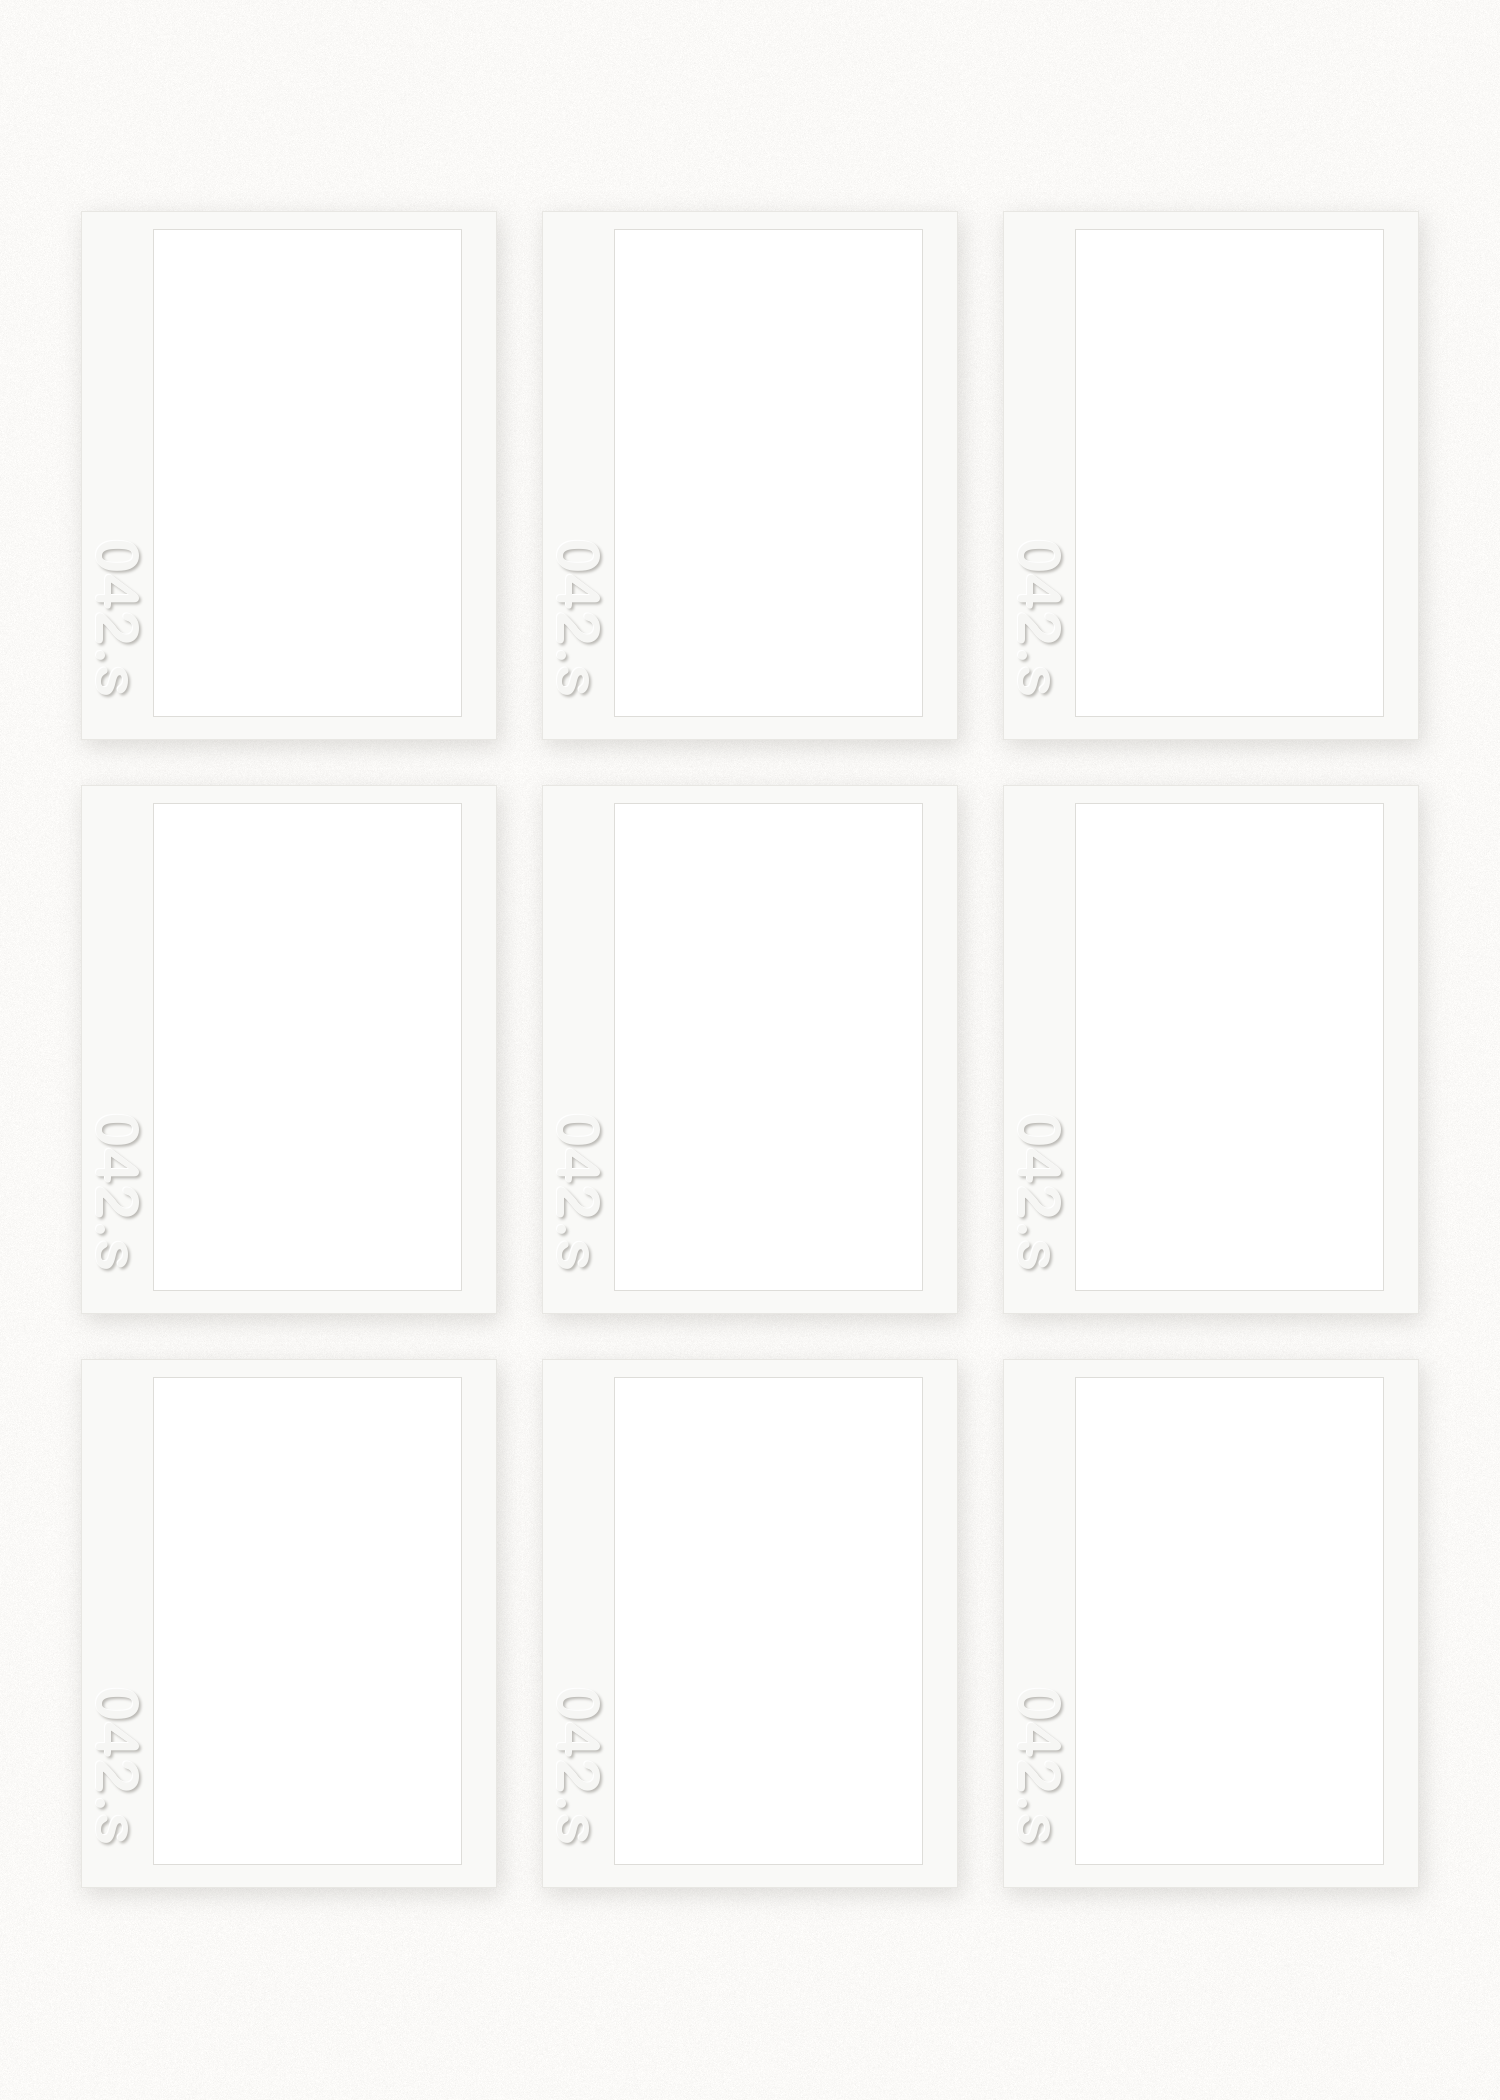
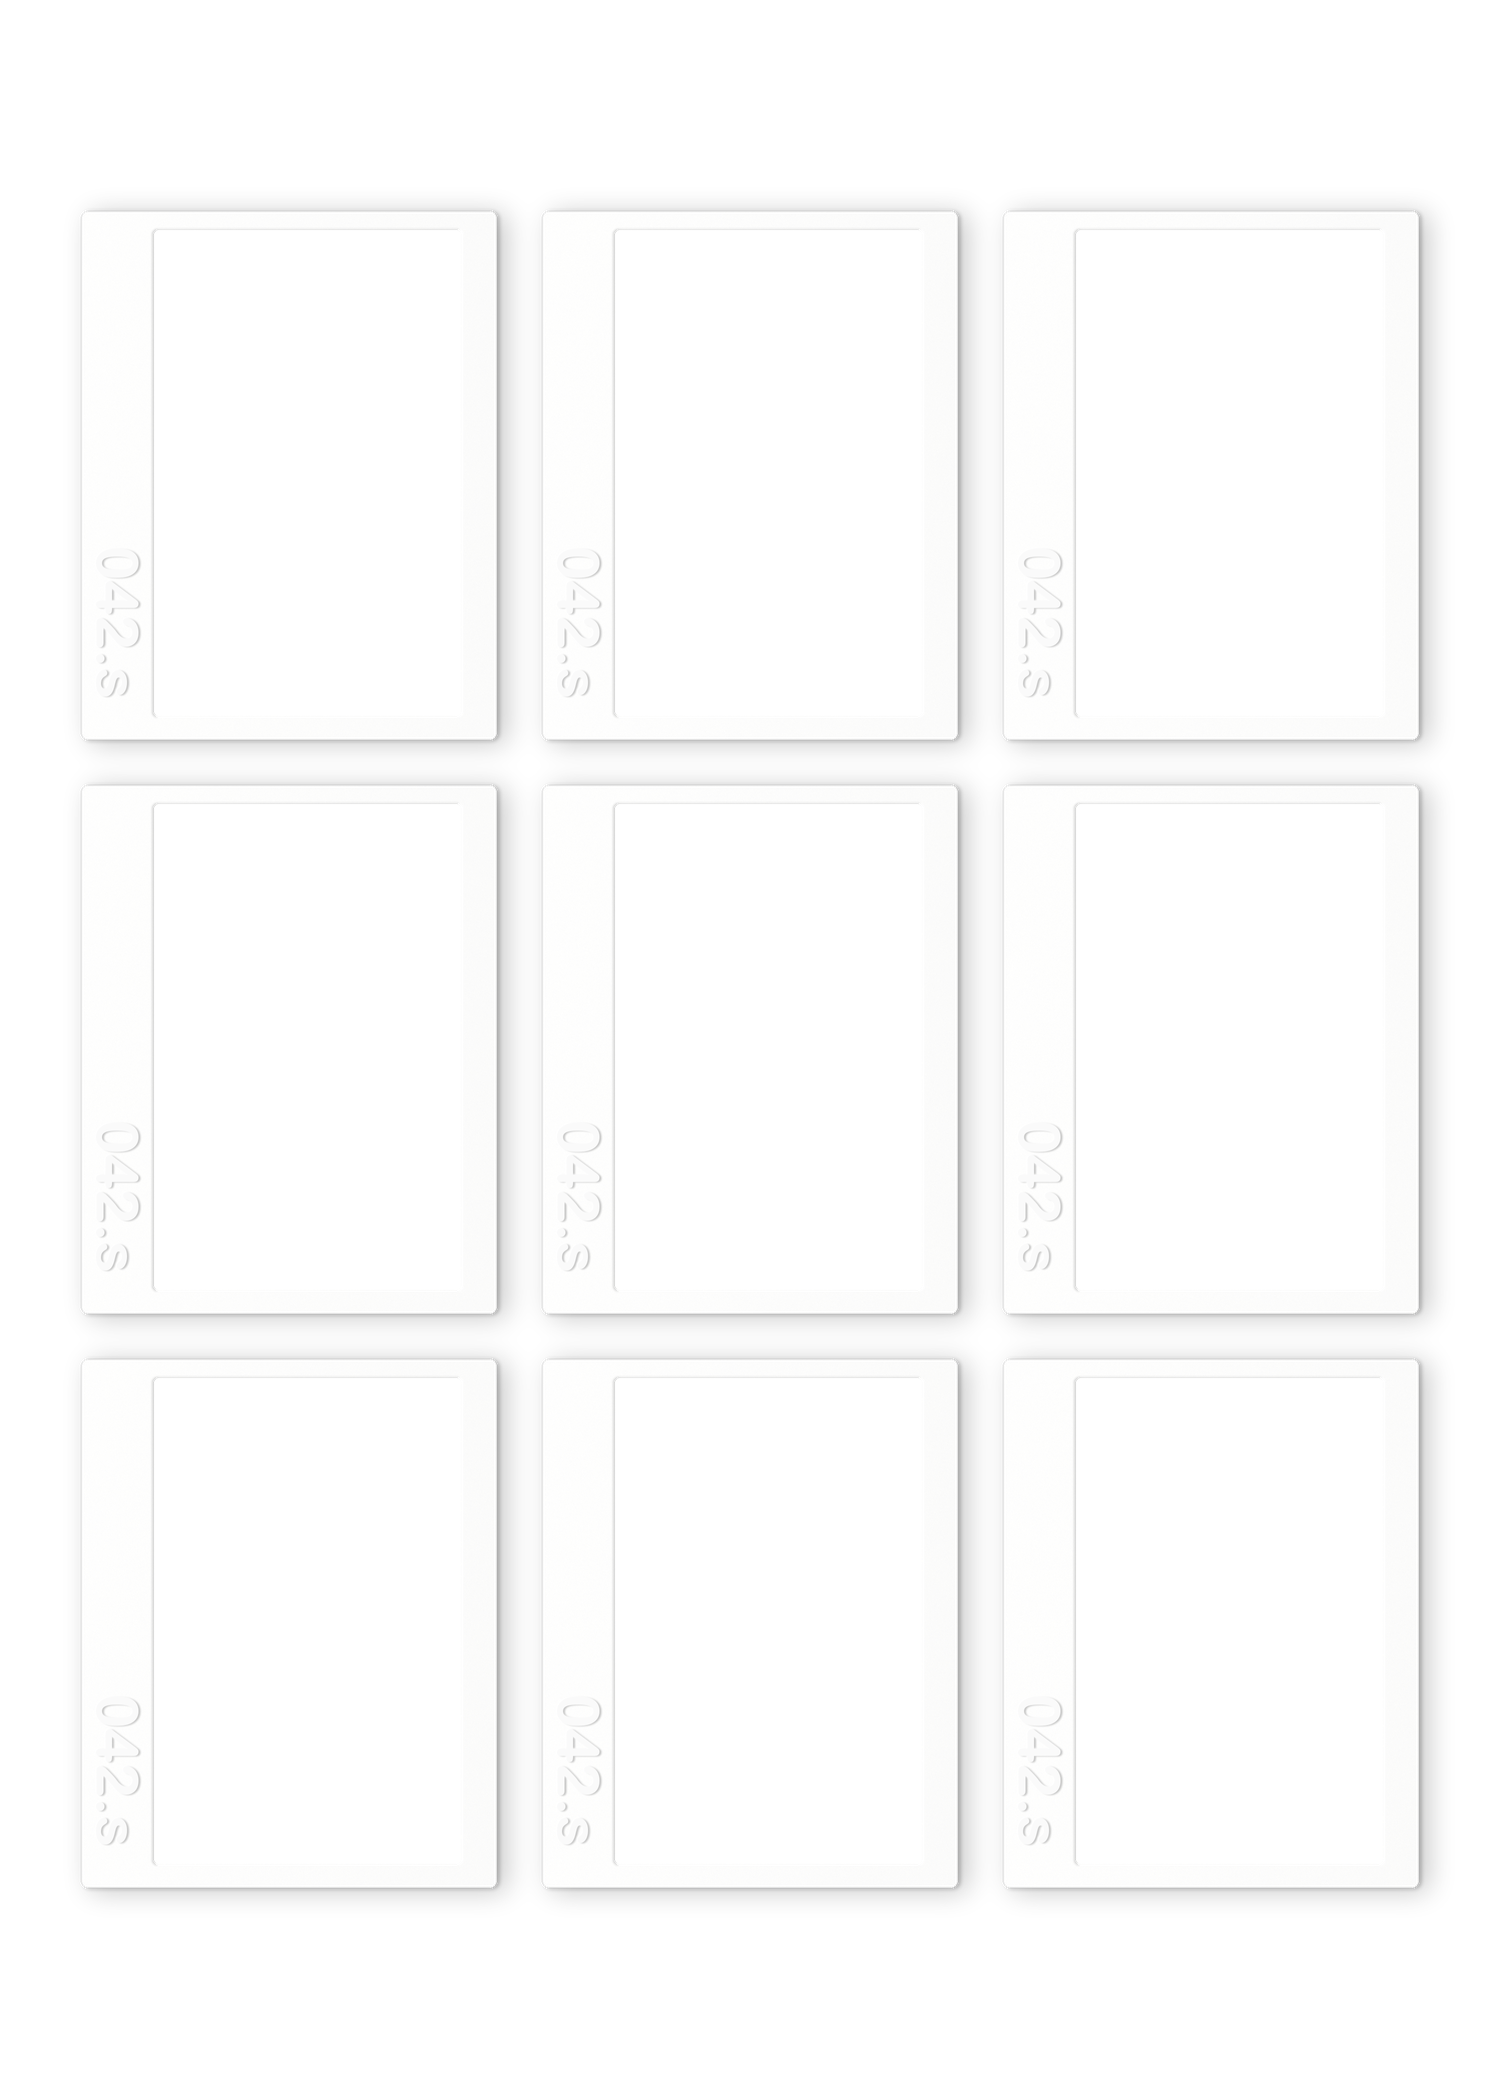
폴라로이드 9컷: 완전 흰 바탕, 진짜 인스탁스 와이드처럼, 조명 왼쪽→그림자 오른쪽 (v34)

diff --git a/app.js b/app.js
@@ -116,10 +116,11 @@ function defaultConfig(){
         texts: []
       },
       /* 폴라로이드 9컷 — 사용자가 준 9컷 포스터 예시를 글씨·테이프만 빼고 같게(사용자 요청). 프레임 그림 frames/polaroid9.png(1500×2100):
-         거의 흰 종이(#FBFAF8) 위 3×3 폴라로이드 카드(416×529, 사이 45), 카드마다 왼쪽 두꺼운 여백(73)에 "042.s" 음영 각인, 옅은 그림자.
+         완전 흰 바탕 위 3×3 카드(416×529, 사이 45). 카드는 인스탁스 와이드 필름을 세로로 세운 모양(둥근 모서리, 한 단 들어간 사진 창,
+         왼쪽 두꺼운 여백 73에 "042.s" 볼록 각인). 조명은 예시처럼 왼쪽에서 비춰 그림자가 오른쪽으로 떨어집니다(사용자 요청).
          사진 칸 307×486(세로). 10장 중 서로 다른 9장을 고릅니다. */
       {
-        id: "pol9", name: "폴라로이드 9컷", enabled: true, instax: false, style: "frame", bg: "#FBFAF8",
+        id: "pol9", name: "폴라로이드 9컷", enabled: true, instax: false, style: "frame", bg: "#FFFFFF",
         canvas: { w:1500, h:2100 },
         frame: null, frameSrc: "frames/polaroid9.png",
         slots: [

diff --git a/sw.js b/sw.js
@@ -1,6 +1,6 @@
 /* 셀프 042 (아이패드 부스) — 오프라인 캐시.
    앱 내용을 고치고 아이패드에 반영되지 않으면 아래 CACHE 번호를 올리세요. */
-const CACHE = "self042-v33";
+const CACHE = "self042-v34";
 const SHELL = ["./", "./index.html", "./app.js", "./camera-check.html", "./manifest.json", "./icon-180.png", "./icon-512.png"];
 
 self.addEventListener("install", (e) => {
